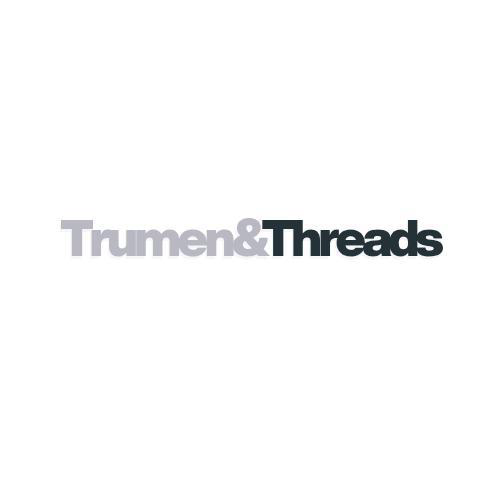
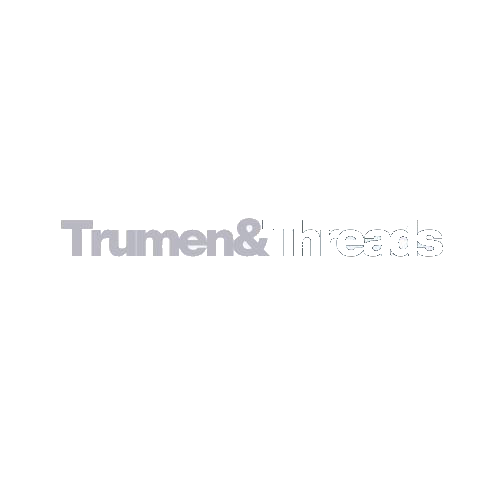
feat: make sp6 transparent with white text, and update sponsor brand names

Changed region(s): [[0.51, 0.42, 0.9, 0.51]]

diff --git a/process-logos.js b/process-logos.js
@@ -1,0 +1,119 @@
+import { Jimp } from 'jimp';
+import path from 'path';
+
+async function processImage(filename) {
+  const inputPath = path.join('src', 'assets', filename);
+  const ext = path.extname(filename);
+  const baseName = path.basename(filename, ext);
+  const outputPath = path.join('src', 'assets', `${baseName.toLowerCase()}.png`);
+
+  console.log(`Processing ${inputPath} -> ${outputPath}...`);
+  const image = await Jimp.read(inputPath);
+  
+  const width = image.bitmap.width;
+  const height = image.bitmap.height;
+  const data = image.bitmap.data; // Buffer of RGBA values
+
+  // Flood fill algorithm to convert white background to transparent.
+  // We will start queue with pixels along the borders:
+  // - Top & bottom edges (y = 0, y = height - 1)
+  // - Left & right edges (x = 0, x = width - 1)
+  const queue = [];
+  const visited = new Set();
+
+  function getIndex(x, y) {
+    return (y * width + x) * 4;
+  }
+
+  function getPixelKey(x, y) {
+    return `${x},${y}`;
+  }
+
+  // Push border pixels
+  for (let x = 0; x < width; x++) {
+    queue.push([x, 0]);
+    queue.push([x, height - 1]);
+    visited.add(getPixelKey(x, 0));
+    visited.add(getPixelKey(x, height - 1));
+  }
+  for (let y = 0; y < height; y++) {
+    queue.push([0, y]);
+    queue.push([width - 1, y]);
+    visited.add(getPixelKey(0, y));
+    visited.add(getPixelKey(width - 1, y));
+  }
+
+  // White threshold (RGB all > 220)
+  // Let's make it a bit generous to capture near-white artifacts/shadows
+  const threshold = 220;
+
+  while (queue.length > 0) {
+    const [x, y] = queue.shift();
+    const idx = getIndex(x, y);
+    const r = data[idx];
+    const g = data[idx + 1];
+    const b = data[idx + 2];
+
+    // If it's near-white, make it transparent and enqueue its neighbors
+    if (r > threshold && g > threshold && b > threshold) {
+      data[idx + 3] = 0; // Set Alpha to transparent
+
+      // Check 4-way neighbors
+      const neighbors = [
+        [x + 1, y],
+        [x - 1, y],
+        [x, y + 1],
+        [x, y - 1]
+      ];
+
+      for (const [nx, ny] of neighbors) {
+        if (nx >= 0 && nx < width && ny >= 0 && ny < height) {
+          const key = getPixelKey(nx, ny);
+          if (!visited.has(key)) {
+            visited.add(key);
+            queue.push([nx, ny]);
+          }
+        }
+      }
+    }
+  }
+
+  // For sp6, convert dark text to white so it's visible on a dark background
+  if (baseName.toLowerCase() === 'sp6') {
+    for (let i = 0; i < data.length; i += 4) {
+      if (data[i + 3] === 0) continue; // Skip transparent background
+      const r = data[i];
+      const g = data[i + 1];
+      const b = data[i + 2];
+      if (r < 100 && g < 100 && b < 100) {
+        data[i] = 255;
+        data[i + 1] = 255;
+        data[i + 2] = 255;
+      }
+    }
+  }
+
+  // Save as PNG
+  await image.write(outputPath);
+  console.log(`Saved ${outputPath}`);
+}
+
+async function main() {
+  const logos = [
+    'sp1.jpeg',
+    'sp2.PNG',
+    'sp3.jpeg',
+    'sp4.PNG',
+    'sp5.jpeg',
+    'sp6.jpeg'
+  ];
+  for (const logo of logos) {
+    try {
+      await processImage(logo);
+    } catch (err) {
+      console.error(`Error processing ${logo}:`, err);
+    }
+  }
+}
+
+main();

diff --git a/src/components/Sponsors.jsx b/src/components/Sponsors.jsx
@@ -12,12 +12,12 @@ import sp6 from '../assets/sp6.png';
 
 export default function Sponsors() {
   const sponsors = [
-    { id: 'sp1', src: sp1, name: 'Sponsor 1' },
-    { id: 'sp2', src: sp2, name: 'Sponsor 2' },
-    { id: 'sp3', src: sp3, name: 'Sponsor 3' },
-    { id: 'sp4', src: sp4, name: 'Sponsor 4' },
-    { id: 'sp5', src: sp5, name: 'Sponsor 5' },
-    { id: 'sp6', src: sp6, name: 'Sponsor 6' },
+    { id: 'sp1', src: sp1, name: 'NOARCH' },
+    { id: 'sp2', src: sp2, name: 'Sakthi Metals' },
+    { id: 'sp3', src: sp3, name: 'Liberty Leather Stores' },
+    { id: 'sp4', src: sp4, name: 'Sharon Enterprises' },
+    { id: 'sp5', src: sp5, name: 'MSI' },
+    { id: 'sp6', src: sp6, name: 'Trumen & Threads' },
   ];
 
   // We loop the sponsors array three times to enable seamless endless scrolling
